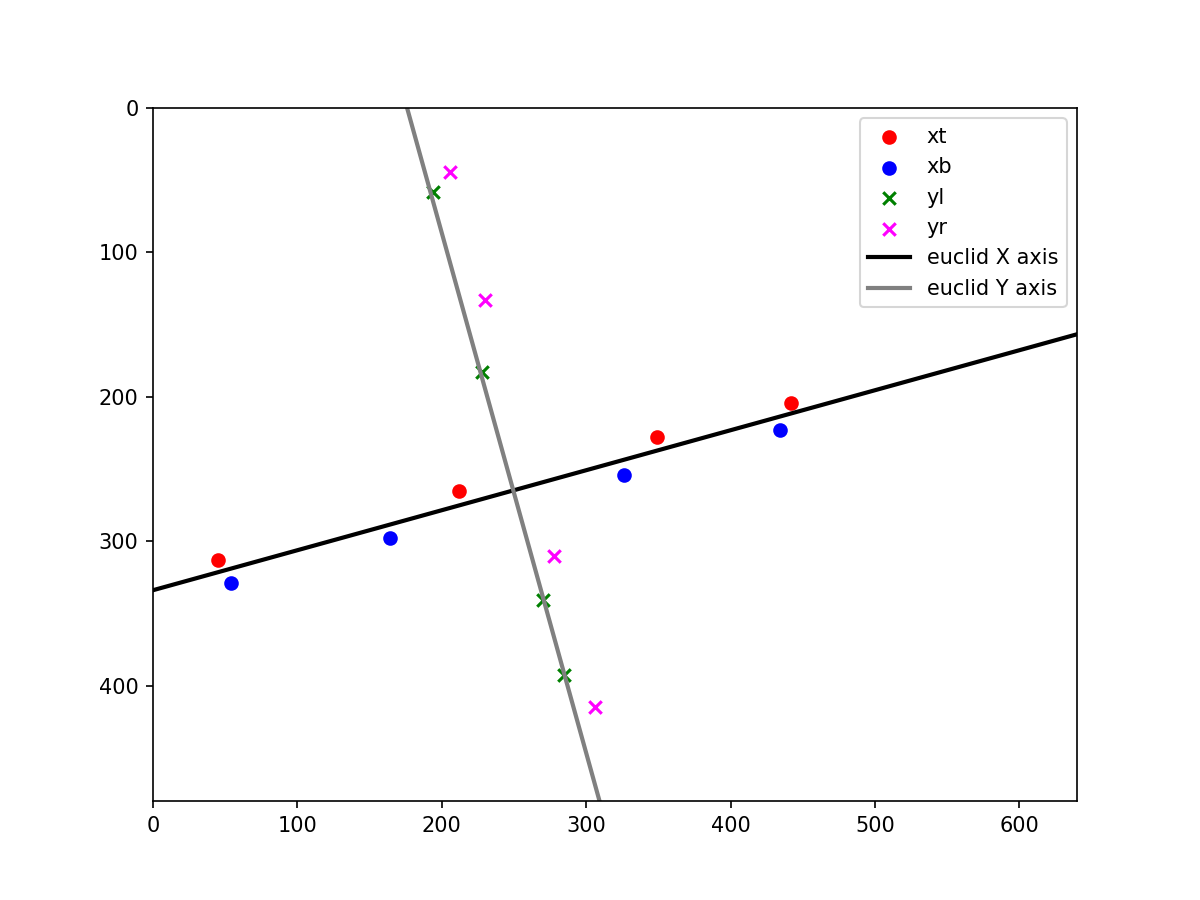
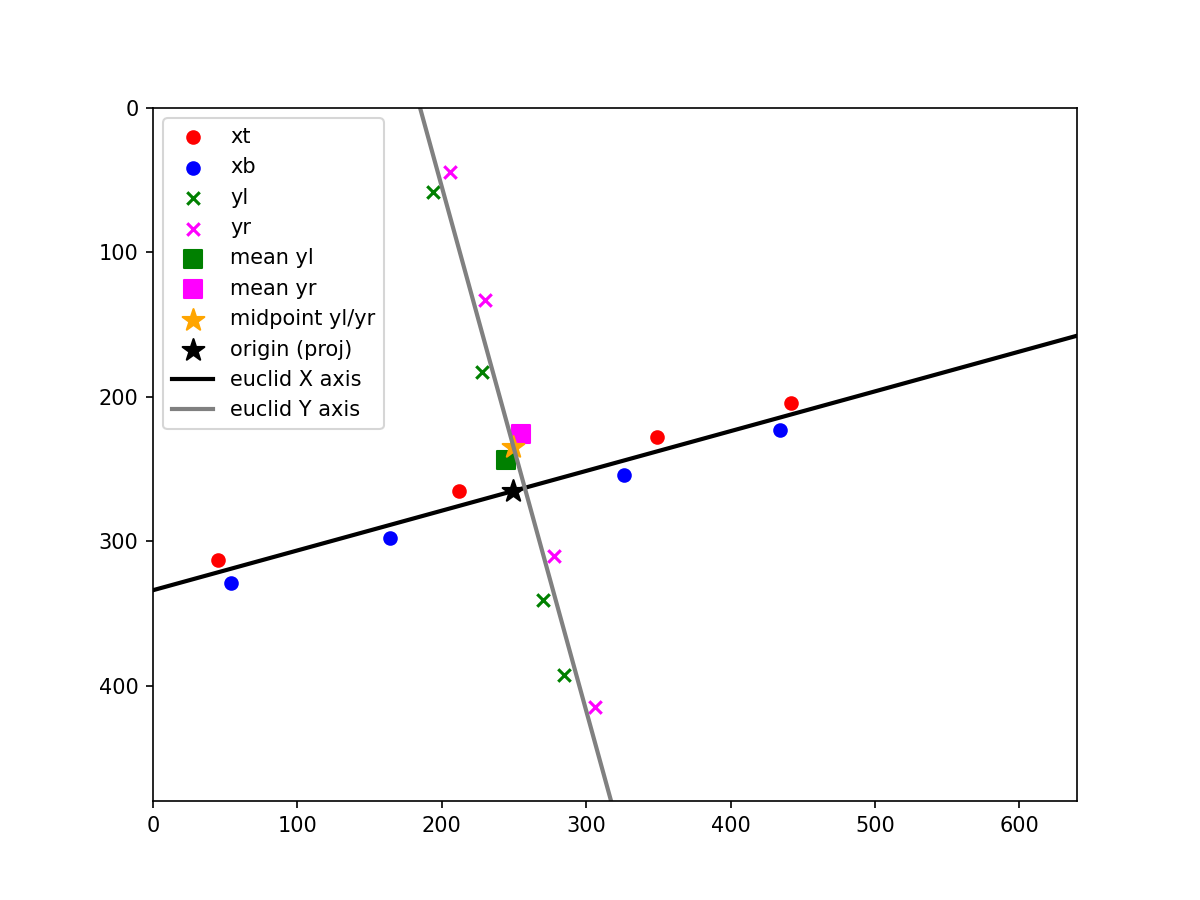
extrinsic parameters are set

diff --git a/pi/src/markerHelperTest.py b/pi/src/markerHelperTest.py
@@ -1,3 +1,9 @@
+"""
+Copy of markerHelper.py for isolated testing.
+"""
+
+# Copy from markerHelper.py below:
+
 """markerHelper
 
 Light-weight helpers for computing image-space X/Y axes from a Euclidean
@@ -14,17 +20,11 @@ were removed in favor of `euclid_transform_coord`.
 from typing import Optional, Tuple, Dict
 import math
 import numpy as np
-import appSettings
 
-# Public API exported by `from markerHelper import *`
 __all__ = ["euclid_transform_coord", "compute_world_axes_from_markers"]
 
 
 def _intersect_line_rect(x0: float, y0: float, dx: float, dy: float, w: float, h: float):
-    """Return up to two intersection points (x,y) of the parametric line
-    (x0+t*dx, y0+t*dy) with the rectangle [0..w] x [0..h]. If no intersections
-    are found a long projected segment is returned as two points.
-    """
     eps = 1e-12
     pts = []
     if abs(dx) > eps:
@@ -48,7 +48,6 @@ def _intersect_line_rect(x0: float, y0: float, dx: float, dy: float, w: float, h
     if not pts:
         diag = math.hypot(w, h) * 1.5
         return [(x0 - dx * diag, y0 - dy * diag), (x0 + dx * diag, y0 + dy * diag)]
-    # deduplicate and sort by t
     seen = set()
     uniq = []
     for t, x, y in pts:
@@ -71,12 +70,6 @@ def _clamp_point(x: float, y: float, width: int, height: int) -> Tuple[int, int]
 
 
 def euclid_transform_coord(xd: float, yd: float, Az: float, width: int, height: int) -> Dict[str, Tuple[int, int]]:
-    """Compute axis endpoints at image borders for a Euclidean transform.
-
-    xd, yd are origin offsets in pixels relative to image center (centered
-    coordinates). Az is degrees (0 => X to the right, positive CCW).
-    """
-    # image center
     cx = float(width) / 2.0
     cy = float(height) / 2.0
     ox = cx + float(xd)
@@ -91,7 +84,6 @@ def euclid_transform_coord(xd: float, yd: float, Az: float, width: int, height: 
     x_pts = _intersect_line_rect(ox, oy, vx, vy, float(width), float(height))
     y_pts = _intersect_line_rect(ox, oy, px, py, float(width), float(height))
 
-    # guarantee two points
     if len(x_pts) < 2:
         diag = math.hypot(width, height) * 1.5
         x_pts = [(ox - vx * diag, oy - vy * diag), (ox + vx * diag, oy + vy * diag)]
@@ -111,16 +103,10 @@ def compute_world_axes_from_markers(markers: Dict[str, list]) -> Tuple[float, fl
     """
     Compute optimal origin and azimuth that minimize squared distance from all markers to their axes.
     
-    Given marker groups 'xt','xb','yl','yr' (centered coords) compute Az, xd, yd using
-    least-squares optimization.
-    
     Optimization variables: origin_x, origin_y, azimuth
     Cost function: sum of squared distances from:
       - xt, xb markers to X-axis (defined by origin and azimuth)
       - yl, yr markers to Y-axis (perpendicular to X-axis through origin)
-    
-    Returns (Az_deg, xd, yd) where xd, yd are in the same centered coordinate
-    system (pixels).
     """
     try:
         xt = np.array(markers['xt'], dtype=np.float64)
@@ -204,5 +190,10 @@ def compute_world_axes_from_markers(markers: Dict[str, list]) -> Tuple[float, fl
     ox_opt, oy_opt, az_rad_opt = result.x
     az_deg_opt = math.degrees(az_rad_opt)
     
+    initial_cost = cost_function(initial_guess)
+    print("[DEBUG markerHelperTest] Optimization results:")
+    print(f"  Initial: origin=({mid[0]:.3f}, {mid[1]:.3f}), Az={math.degrees(az_initial):.3f}°, cost={initial_cost:.3f}")
+    print(f"  Optimal: origin=({ox_opt:.3f}, {oy_opt:.3f}), Az={az_deg_opt:.3f}°, cost={result.fun:.3f}")
+    print(f"  Improvement: {((initial_cost - result.fun) / initial_cost * 100):.1f}%, Success: {result.success}")
+    
     return az_deg_opt, ox_opt, oy_opt
-# Duplicate legacy implementation removed; use typed `compute_world_axes_from_markers` above.

diff --git a/pi/src/caliOffset.py b/pi/src/caliOffset.py
@@ -44,7 +44,7 @@ class CalibrationOffsetWindow(QWidget):
         self.timer.start(33)  # ~30 FPS
         self.setup_ui()
         self.setup_connections()
-        # Load num_offset_marker from appSettings
+          # Load num_offset_marker from appSettings
         self.num_offset_marker = appSettings.get_calibration_settings().get('num_offset_marker', 4)
         # Extrinsic results (azimuth, tx, ty) available to whole class
         self.az = None
@@ -405,14 +405,29 @@ class CalibrationOffsetWindow(QWidget):
                     print(f"  {group}: {points}")
 
                 # compute Az, tx, ty and store to instance for later use
-                self.az, self.tx, self.ty = markerHelper.compute_world_axes_from_markers(markers)
+                az, tx, ty = markerHelper.compute_world_axes_from_markers(markers)
+                # Scale tx, ty by 'scale' from intrinsic settings
+                scale = 1.0
+                try:
+                    cam_settings = appSettings.get_active_camera_settings()
+                    scale_val = cam_settings.get('intrinsic', {}).get('perspective', {}).get('scale_mm_per_pixel', 1.0)
+                    if scale_val is None:
+                        scale = 1.0
+                    else:
+                        scale = float(scale_val)
+                except Exception as e:
+                    print(f"[WARN] Could not get scale from intrinsic: {e}")
+
 
                 # compute axis coordinates (use image size from widget)
+                # First assign computed values (scaled) so we don't pass None into euclid_transform_coord
+                self.az = az
+                self.tx = tx * scale if tx is not None else None
+                self.ty = ty * scale if ty is not None else None
                 w = getattr(self.marker_widget, 'img_width', None)
                 h = getattr(self.marker_widget, 'img_height', None)
                 # Use marker-driven axis computation: Y axis is based on mean x of yl/yr
-                coords = markerHelper.euclid_transform_coord(self.tx, self.ty, self.az, w, h)
-
+                coords = markerHelper.euclid_transform_coord(tx, ty, az, w, h)
                 # draw X axis (red) and Y axis (green) on the image
                 x_start = coords['x_start']
                 x_end = coords['x_end']
@@ -473,6 +488,13 @@ class CalibrationOffsetWindow(QWidget):
                         self.close()
                     except Exception:
                         pass
+                    # call on_exit_callback if set (restores main UI)
+                    try:
+                        if hasattr(self, 'on_exit_callback') and self.on_exit_callback:
+                            print("[DEBUG] caliOffset: Calling on_exit_callback from dialog OK")
+                            self.on_exit_callback()
+                    except Exception as e:
+                        print(f"[ERROR] on_exit_callback failed: {e}")
                 ui.bAccept.clicked.connect(_on_ok)
 
                 dialog.exec_()

diff --git a/pi/src/testMarker.py b/pi/src/testMarker.py
@@ -7,7 +7,7 @@ at (0,0) by default) and calls `compute_world_axes_from_markers` and
 this file to test different inputs.
 """
 
-from markerHelper import (
+from markerHelperTest import (
     compute_world_axes_from_markers,
     euclid_transform_coord,
 )
@@ -124,6 +124,26 @@ def main():
                 ax.scatter(xs, ys, c='green', marker='x', label='yl')
             elif k == 'yr':
                 ax.scatter(xs, ys, c='magenta', marker='x', label='yr')
+
+        # Visualize marker means, midpoint, and origin
+        import numpy as np
+        yl = np.array(markers['yl'], dtype=np.float64)
+        yr = np.array(markers['yr'], dtype=np.float64)
+        mean_yl = np.mean(yl, axis=0)
+        mean_yr = np.mean(yr, axis=0)
+        mid = (mean_yl + mean_yr) / 2.0
+        # Project midpoint onto X axis (origin)
+        m_xt, b_xt = np.linalg.lstsq(np.vstack([np.array(markers['xt'])[:,0], np.ones(4)]).T, np.array(markers['xt'])[:,1], rcond=None)[0]
+        m_xb, b_xb = np.linalg.lstsq(np.vstack([np.array(markers['xb'])[:,0], np.ones(4)]).T, np.array(markers['xb'])[:,1], rcond=None)[0]
+        m_xw = (m_xt + m_xb) / 2.0
+        b_xw = (b_xt + b_xb) / 2.0
+        origin_x = mid[0]
+        origin_y = m_xw * origin_x + b_xw
+        # Draw means
+        ax.scatter([mean_yl[0]+cx], [mean_yl[1]+cy], c='green', marker='s', s=80, label='mean yl')
+        ax.scatter([mean_yr[0]+cx], [mean_yr[1]+cy], c='magenta', marker='s', s=80, label='mean yr')
+        ax.scatter([mid[0]+cx], [mid[1]+cy], c='orange', marker='*', s=120, label='midpoint yl/yr')
+        ax.scatter([origin_x+cx], [origin_y+cy], c='black', marker='*', s=120, label='origin (proj)')
 
         # plot only euclid_transform_coord axes (black/gray)
         exs = [coords_euclid['x_start'], coords_euclid['x_end']]
